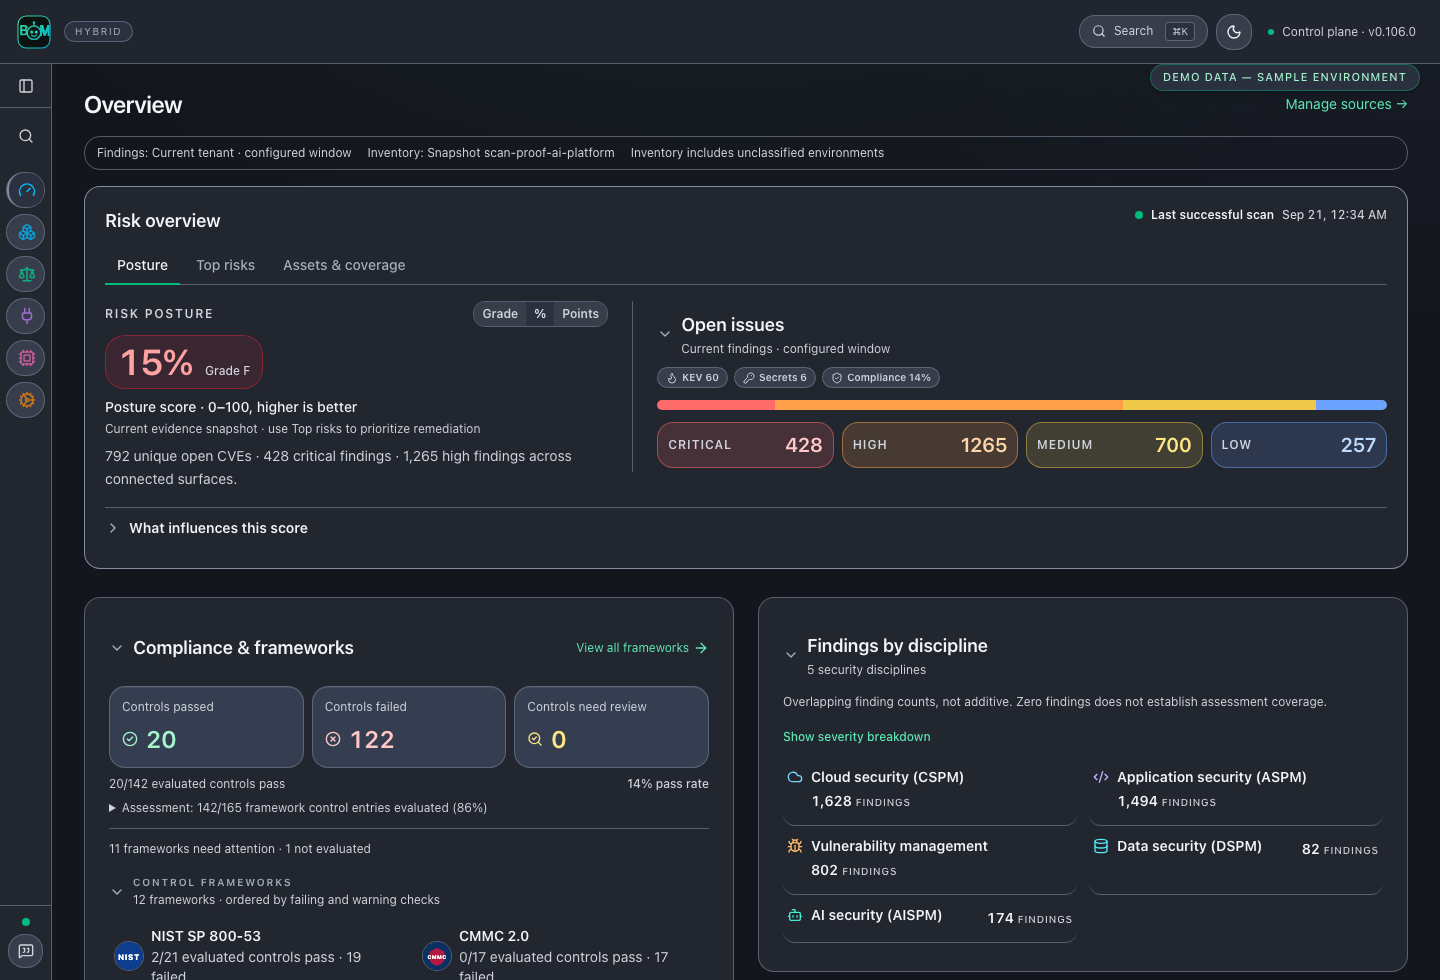
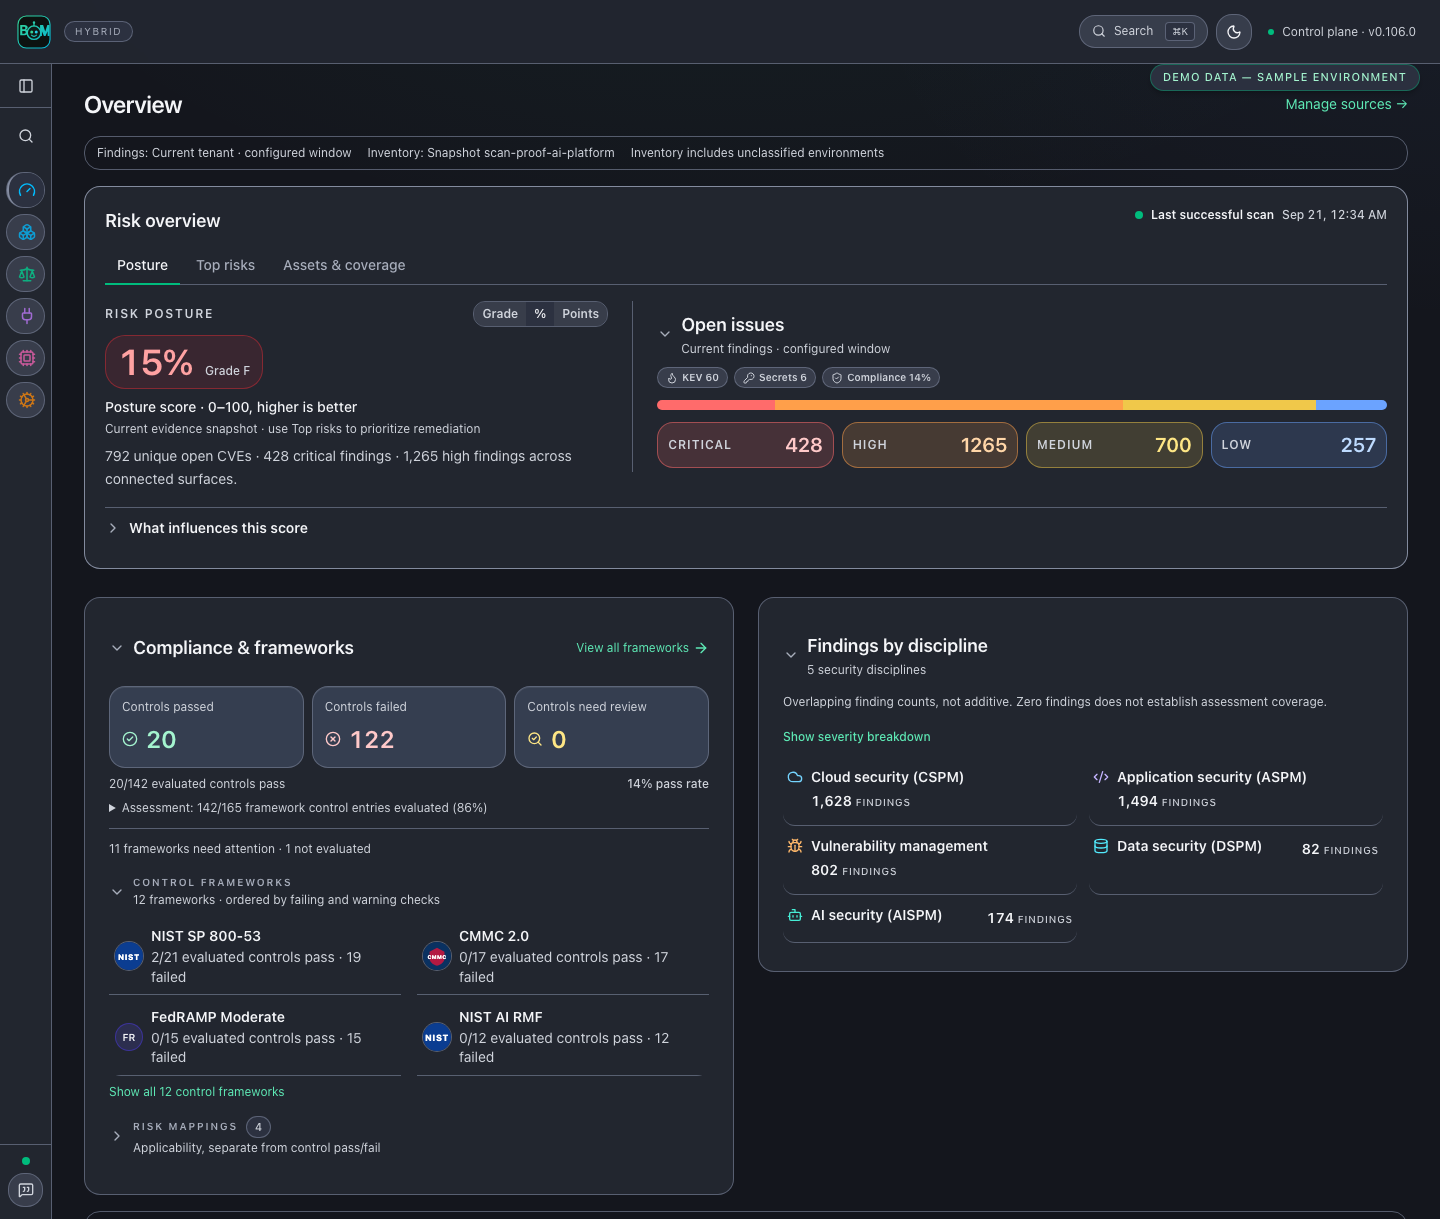
docs(readme): unify overview and pair graph investigations (#5351)
## Summary
- Combine the leadership and GRC product tour into one overview with
posture, evaluated controls, and visible framework logos.
- Pair the recorded agent neighborhood and reference-lab finding path in
clickable side-by-side previews, retaining sample-data and evidence
qualifications.
- Capture the taller overview through the existing product-proof
generator and update the README contracts.

## Verification
- `npm run verify:toolchain`, `npm run build`, and `npm run
capture:product-proof`.
- `pytest -q tests/test_public_frontdoor_contract.py
tests/test_public_docs_cli_alignment.py` — 35 passed.
- `make preflight` and `git diff --check`.
- Inspected the generated overview and the graph table rendered from
GitHub Markdown; full-size images remain linked.

## Notes
- Screenshots show labeled sample data and reference-lab infrastructure;
they do not establish customer deployment or exploitation.

---------

diff --git a/tests/test_public_frontdoor_contract.py b/tests/test_public_frontdoor_contract.py
@@ -101,14 +101,18 @@ def test_readme_shows_the_end_to_end_product_journey_and_links_the_gallery() -> 
     images = re.findall(r'<img src="docs/images/([^"]+)"', journey)
     assert images == [
         "dashboard-live.png",
-        "dashboard-paths-live.png",
+        "context-map-live.png",
         "correlation-graph-live.png",
         "dependency-map-live.png",
         "remediation-live.png",
     ]
-    assert journey.count('width="920"') == 5
-    grc = journey.split("### GRC and audit:", 1)[1].split("### AppSec", 1)[0]
-    assert "dashboard-paths-live.png" in grc
+    assert journey.count('width="920"') == 2
+    assert journey.count('width="1440"') == 1
+    assert journey.count('width="450"') == 2
+    assert "<summary>Explore graph navigation, permissions and evidence</summary>" in journey
+    grc = journey.split("### Security, engineering and GRC:", 1)[1].split("### AppSec", 1)[0]
+    assert "dashboard-live.png" in grc
+    assert "dashboard-paths-live.png" not in grc
     assert "OWASP" in grc and "MITRE ATLAS" in grc
     assert "offline synthetic enterprise estate" in grc
     assert "evaluated" in grc
@@ -137,7 +141,7 @@ def test_readme_leads_with_discover_scan_correlate_act_brand_header() -> None:
 
 def test_readme_frontdoor_is_short_and_integration_roles_are_explicit() -> None:
     readme = (ROOT / "README.md").read_text(encoding="utf-8")
-    integrations = readme.split("### Work with your existing tools", 1)[1].split("## Quick start", 1)[0]
+    integrations = readme.split("<summary>Work with your existing tools</summary>", 1)[1].split("## Quick start", 1)[0]
     for capability in ("CLI or GitHub Action", "REST API", "MCP", "SARIF", "CycloneDX", "SPDX", "fleet sync", "runtime evidence"):
         assert capability in integrations
     assert "[Integration capability matrix](docs/INTEGRATIONS.md)" in integrations

diff --git a/tests/test_public_docs_cli_alignment.py b/tests/test_public_docs_cli_alignment.py
@@ -186,7 +186,7 @@ def test_readme_storefront_is_concise_ordered_and_actionable() -> None:
     images = re.findall(r'<img src="docs/images/([^"]+-live.png)"', readme)
     assert images == [
         "dashboard-live.png",
-        "dashboard-paths-live.png",
+        "context-map-live.png",
         "correlation-graph-live.png",
         "dependency-map-live.png",
         "remediation-live.png",

diff --git a/README.md b/README.md
@@ -36,30 +36,18 @@
 
 ## Product tour
 
-### Security and engineering leaders: decide what needs attention
+### Security, engineering and GRC: prioritize risk and assessment gaps
 
-Start with **Posture**, then open **Top risks** to inspect a finding and its evidence. **Assets & coverage** shows inventory in its snapshot and source scope; asset counts
-do not establish collection coverage. Inventory retains selected filters even when no assets match.
-
-<p align="center">
-  <a href="docs/images/dashboard-live.png"><img src="docs/images/dashboard-live.png" alt="Actual Overview starting with posture, current findings and freshness, with Top risks and Assets and coverage drilldowns" width="920"></a>
-</p>
-
-Explore [Top risks](docs/images/dashboard-risks-live.png) and [scoped Inventory](docs/images/inventory-live.png).
-
-### GRC and audit: investigate assessment gaps
-
-Review controls passed, failed and needing review. Pass rate describes evaluated results; assessment
-coverage counts evaluated framework control entries, which may overlap across frameworks. Select a framework
-to inspect controls, evidence and linked findings; count cards show a label and status icon per result,
-readable in either theme. **Risk mappings** show OWASP and MITRE ATLAS applicability separately from control
-pass/fail. Open **Compliance** for the [framework catalog and control
-evidence](site-docs/features/compliance.md). The offline synthetic enterprise estate below includes
-evaluated checks and risk mappings. These results do not establish certification or an audit opinion.
+Start with **Posture**, inspect evidence in **Top risks**, and scope inventory in **Assets & coverage**.
+**Compliance** separates evaluated-control pass rate from assessment coverage.
+OWASP and MITRE ATLAS risk mappings describe applicability, not control pass/fail.
+The offline synthetic enterprise estate includes evaluated checks; results do not establish certification or an audit opinion.
 
 <p align="center">
-  <a href="docs/images/dashboard-paths-live.png"><img src="docs/images/dashboard-paths-live.png" alt="Compact Overview assessment summary with four priority frameworks, evaluated-control counts, and expandable risk mappings in a labeled sample environment" width="920"></a>
+  <a href="docs/images/dashboard-live.png"><img src="docs/images/dashboard-live.png" alt="Overview of posture, findings and assessment gaps with evaluated-control counts and framework logos in a labeled sample environment" width="1440"></a>
 </p>
+
+Explore [Top risks](docs/images/dashboard-risks-live.png), [scoped Inventory](docs/images/inventory-live.png), and [framework controls and evidence](site-docs/features/compliance.md).
 
 ### AppSec and cloud teams: explain why a finding matters
 
@@ -68,21 +56,33 @@ the service, container, tool, workload identity and modeled data asset. Inspect
 the source receipts and carry the selected finding into remediation. A recorded
 path does not by itself prove exploitation or successful data access.
 
-<p align="center">
-  <a href="docs/images/correlation-graph-live.png"><img src="docs/images/correlation-graph-live.png" alt="Reference lab application graph connecting a real Pillow advisory to modeled infrastructure and its remediation action" width="920"></a>
-</p>
+<table>
+  <tr><th>Explore the agent neighborhood</th><th>Follow a finding to its evidence</th></tr>
+  <tr>
+    <td width="50%"><a href="docs/images/context-map-live.png"><img src="docs/images/context-map-live.png" alt="Recorded agent neighborhood linking a role, agents, MCP servers, tool, credential reference, package and finding" width="450"></a></td>
+    <td width="50%"><a href="docs/images/correlation-graph-live.png"><img src="docs/images/correlation-graph-live.png" alt="Reference lab path linking a Pillow advisory, workload identity and modeled data asset" width="450"></a></td>
+  </tr>
+  <tr><td>Expand connections, focus an entity, then return to the loaded overview.</td><td>Inspect each hop’s source evidence, permissions and remediation.</td></tr>
+</table>
 
-Choose a scope in **Summary**, then **Inspect** an entity. Filter by type or severity, set traversal
-direction and hop limit, and expand relevant relationships; badges pair each verb with an icon so types stay
-distinguishable without color. The ordered path and hop inspector expose evidence freshness and unknowns.
-Large scopes use bounded pages and disclose when the current view is incomplete.
-From **Context**, start with a compact agent neighborhood, expand connections by type, and select nodes or arrows for evidence. Use **Focus here**, **Back**, or an exact identifier to navigate loaded evidence without displaying the whole graph. Open **Investigate reach & permissions** for permission receipts, CVE prerequisites and related activity; missing exploitability stays **not assessed**. [Investigation workflow](site-docs/architecture/security-graph-model.md#investigate-an-agent-from-context).
+Select either preview for the full-size view. Left: labeled sample data. Right: reference lab with modeled infrastructure.
+
+<details>
+<summary>Explore graph navigation, permissions and evidence</summary>
+
+Choose a scope in **Summary**, then **Inspect** an entity. Filter by type or severity,
+set direction and hop limits, and expand bounded pages; incomplete views are labeled.
+In **Context**, use **Focus here**, **Back**, or an exact identifier. Select a node or
+arrow to inspect its evidence, freshness and unknowns. **Investigate reach & permissions**
+opens permission receipts, CVE prerequisites and related activity; missing exploitability
+stays **not assessed**. [Investigation workflow](site-docs/architecture/security-graph-model.md#investigate-an-agent-from-context).
+
+</details>
 
 ### Engineers and GRC: prioritize findings and verify fixes
 
-Review findings by priority, affected asset, detection evidence and available
-fix. Open remediation to compare package upgrades and mapped controls, assign
-owners, set SLAs and re-scan to verify fixes.
+Review findings by priority, affected asset and evidence. Open remediation for package
+upgrades and mapped controls, assign owners, set SLAs and re-scan to verify fixes.
 
 <p align="center">
   <a href="docs/images/dependency-map-live.png"><img src="docs/images/dependency-map-live.png" alt="Actual Findings screen with labeled sample findings, priority, affected assets, detection evidence and remediation actions" width="920"></a>
@@ -134,16 +134,16 @@ authenticated deployment guide below for a shared instance.
 [Choose a deployment](site-docs/deployment/overview.md) · [Enterprise configuration](docs/ENTERPRISE.md) ·
 [Connect cloud accounts](docs/CLOUD_CONNECT.md)
 
-### Work with your existing tools
+<details>
+<summary>Work with your existing tools</summary>
 
-Use the **CLI or GitHub Action** in CI, the **REST API** for automation, and
-**MCP** from coding assistants. Export **SARIF, CycloneDX, SPDX, JSON and HTML**
-for downstream workflows. Cloud connectors and fleet sync feed the control
-plane; proxy and gateway deployments contribute runtime evidence.
+Use **CLI or GitHub Action**, **REST API**, or **MCP**; export **SARIF, CycloneDX, SPDX, JSON and HTML**.
+Cloud connectors and fleet sync collect inventory; proxy and gateway deployments add runtime evidence.
 
 [Integration capability matrix](docs/INTEGRATIONS.md) · [MCP client setup](docs/MCP_CLIENT_GUIDES.md) ·
-[Proxy, gateway and fleet](site-docs/deployment/proxy-vs-gateway-vs-fleet.md) ·
-[Smithery setup and manifest](site-docs/integrations/smithery.md)
+[Proxy, gateway and fleet](site-docs/deployment/proxy-vs-gateway-vs-fleet.md) · [Smithery setup and manifest](site-docs/integrations/smithery.md)
+
+</details>
 
 ## Quick start
 
